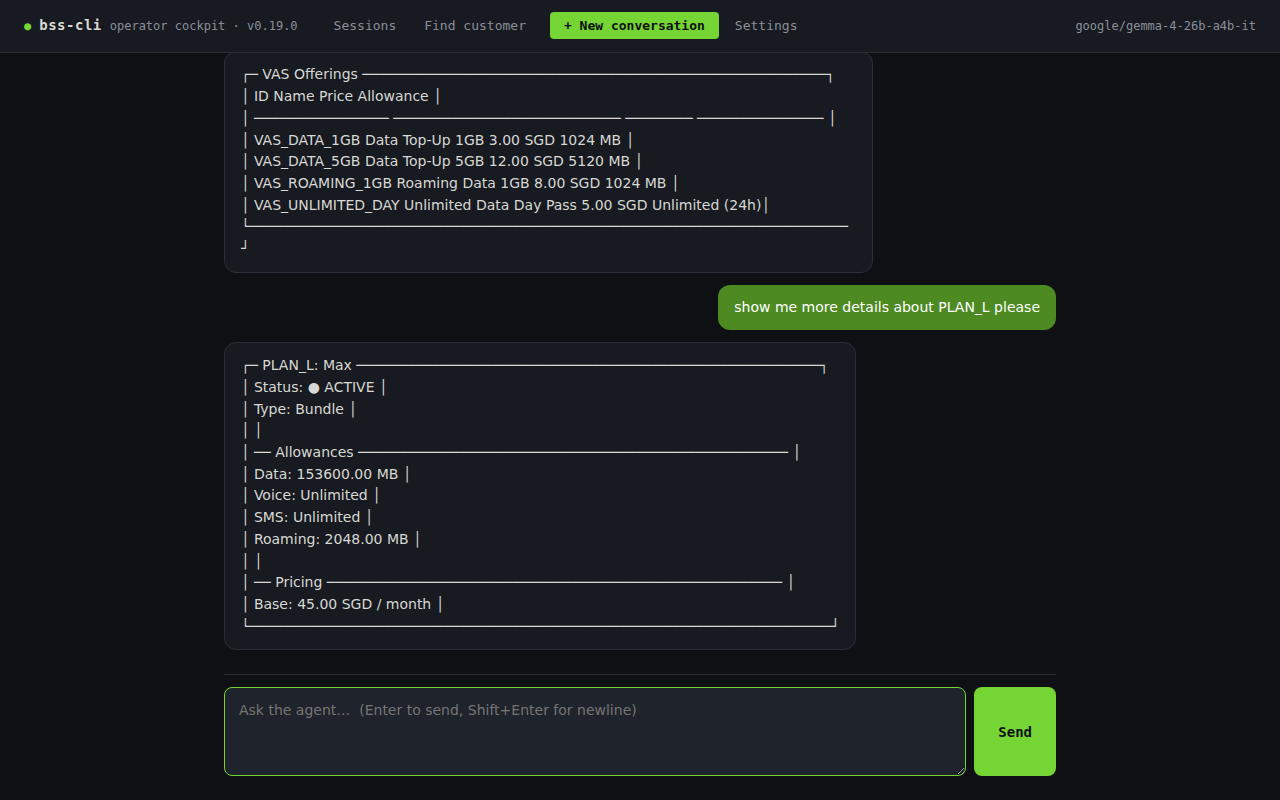
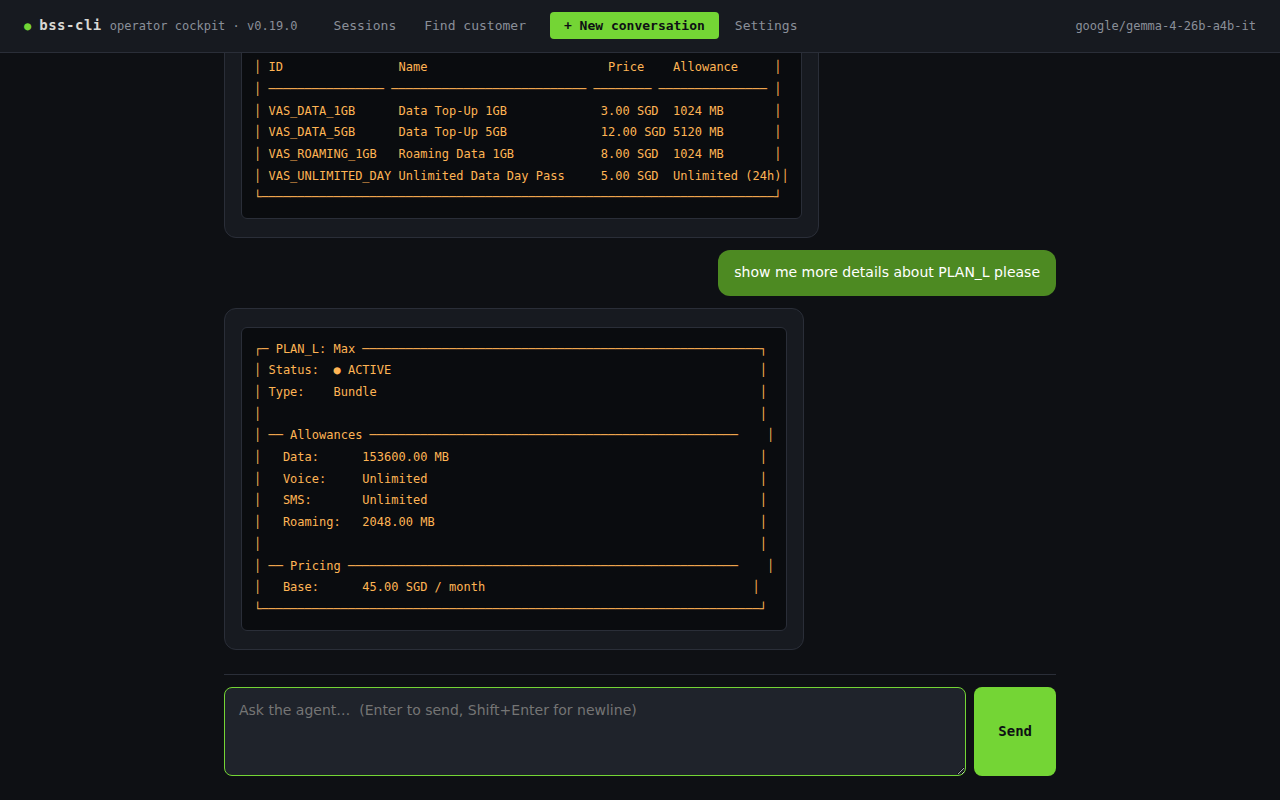
fix(chat-html): render Rich/box-drawing ASCII panels inside <pre>
When the LLM regurgitates Rich Panel/Table output verbatim (┌─│└), a
proportional-font chat bubble with collapsed whitespace destroys
column alignment. Detect contiguous runs of lines containing U+250x
box characters and emit them as <pre><code>...</code></pre> so the
browser preserves monospace + literal spacing — same treatment as
fenced code blocks. README's cockpit-session screenshot regenerated
to reflect the fix.

diff --git a/packages/bss-portal-ui/tests/test_chat_html.py b/packages/bss-portal-ui/tests/test_chat_html.py
@@ -239,6 +239,44 @@ def test_strip_does_not_touch_normal_text() -> None:
     assert out == "Plain reply with no leakage."
 
 
+# ── v0.19 — Rich/box-drawing ASCII panel preservation ───────────────
+
+
+def test_ascii_panel_renders_inside_pre_block() -> None:
+    """Rich Panel/Table output uses U+250x box-drawing characters. When
+    the LLM regurgitates that ASCII art verbatim, a proportional-font
+    chat bubble destroys alignment. Detect the run and emit <pre>."""
+    md = (
+        "Here you go:\n"
+        "┌─ VAS Offerings ─────────────────────────┐\n"
+        "│ ID            Name           Price       │\n"
+        "│ VAS_DATA_1GB  Data Top-Up    3.00 SGD    │\n"
+        "└──────────────────────────────────────────┘"
+    )
+    out = render_chat_markdown(md)
+    assert "<pre><code>" in out
+    # Box characters preserved literally (HTML escape doesn't touch them).
+    assert "┌─ VAS Offerings" in out
+    assert "└─" in out
+    # Surrounding prose still rendered as a paragraph.
+    assert "<p>Here you go:</p>" in out
+
+
+def test_ascii_panel_pipe_borders_also_pre() -> None:
+    """Some Rich themes render side borders as ASCII `|`. The detector
+    fires on inner box-drawing chars too, so a fully-pipe-bordered
+    panel that contains `─` separators still ends up in <pre>."""
+    md = (
+        "│ Status: ACTIVE │\n"
+        "│ Type: Bundle   │\n"
+        "│ ──── Allowances ──── │\n"
+        "│ Data: 1024 MB  │"
+    )
+    out = render_chat_markdown(md)
+    assert "<pre><code>" in out
+    assert "Status: ACTIVE" in out
+
+
 def test_renderer_strips_thought_before_render() -> None:
     """Integration: the bubble renderer chain strips the leakage as
     part of render_chat_markdown — so neither the SSE frame nor the

diff --git a/packages/bss-portal-ui/bss_portal_ui/chat_html.py b/packages/bss-portal-ui/bss_portal_ui/chat_html.py
@@ -84,6 +84,14 @@ _RE_CODE_FENCE = _re.compile(r"^\s*```")
 _RE_TABLE_ROW = _re.compile(r"^\s*\|.+\|\s*$")
 # Separator row (after the header): cells are `---` / `:---:` / `---:` / `:---`
 _RE_TABLE_SEP_CELL = _re.compile(r"^\s*:?-{2,}:?\s*$")
+# v0.19 — Rich/box-drawing ASCII panel detection. The REPL renderers
+# emit Panel / Table layouts using U+250x box characters; when the LLM
+# regurgitates that output verbatim, a proportional-font browser with
+# collapsed whitespace destroys the alignment. Treat any contiguous run
+# of lines that begins with a panel top (`┌`) or contains a panel side
+# (`│` / `└` / `├`) as a literal `<pre>` block.
+_BOX_CHARS = "─━│┃┌┐└┘├┤┬┴┼═║╔╗╚╝"
+_RE_ASCII_PANEL_LINE = _re.compile(rf"[{_BOX_CHARS}]")
 
 
 def _render_inline(line: str) -> str:
@@ -192,6 +200,20 @@ def render_chat_markdown(text: str) -> str:
             _flush_blocks()
             fence_buf = []
             i += 1
+            continue
+
+        # ASCII panel (Rich/box-drawing). Collect contiguous lines that
+        # contain box-drawing characters into one <pre> block so the
+        # browser renders them in monospace with literal whitespace.
+        if _RE_ASCII_PANEL_LINE.search(line):
+            _flush_blocks()
+            panel: list[str] = [line]
+            j = i + 1
+            while j < len(lines) and _RE_ASCII_PANEL_LINE.search(lines[j]):
+                panel.append(lines[j].rstrip())
+                j += 1
+            out.append("<pre><code>" + "\n".join(panel) + "</code></pre>")
+            i = j
             continue
 
         # Pipe table: header row + separator + ≥0 body rows.
